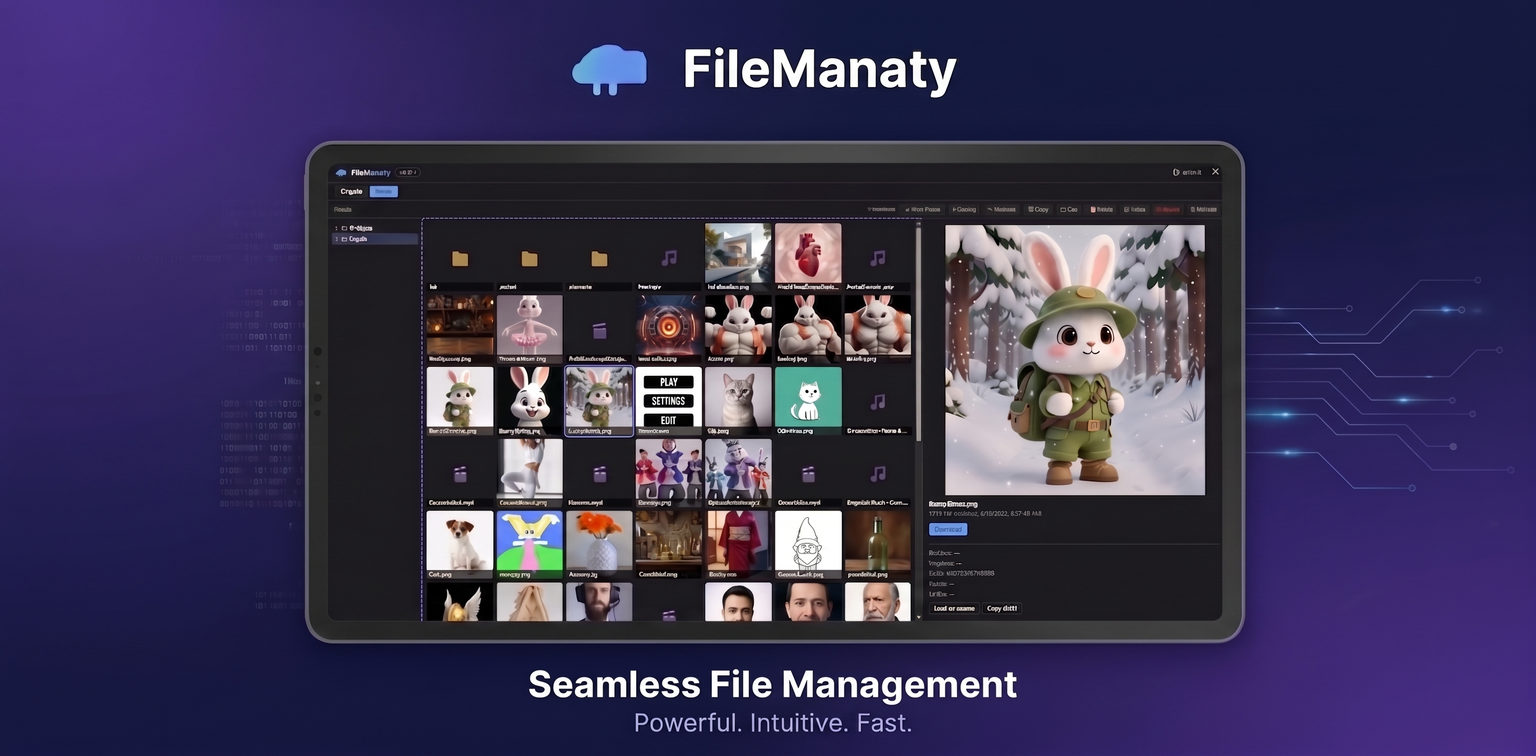
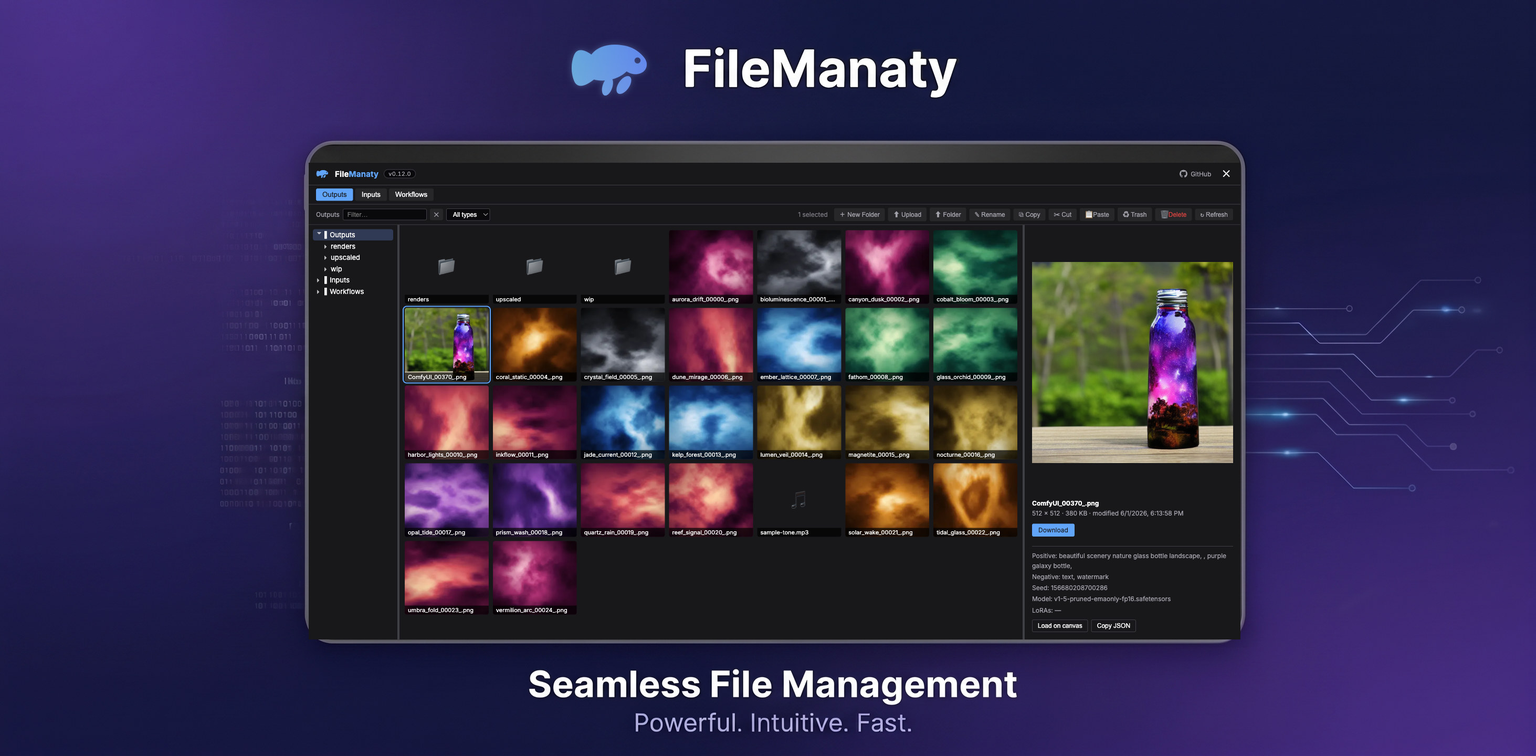
docs(assets): rebuild the README hero around a real screenshot
assets/screenshot.jpg was a marketing composite whose tablet held a
mocked-up UI, not the extension: the version pill read "s:6 2)" and the
toolbar said "Miron Patoe" / "Mitfaies". It also baked in the old flat
mark twice — once as the hero mark, once in the fake app header.

Composited a real capture of the running extension into the existing
tablet frame (real tree, toolbar, selection state and preview pane with
PNG metadata), and replaced the hero mark with the redrawn one, sampling
the original's gradient and glow so the treatment is unchanged.

Background art, wordmark and tagline are untouched. 2.0 MB -> 439 KB.

Changed region(s): [[0.1866, 0.2188, 0.8086, 0.8438], [0.3732, 0.0625, 0.4354, 0.125], [0.1866, 0.8125, 0.2177, 0.8438]]

diff --git a/CHANGELOG.md b/CHANGELOG.md
@@ -11,6 +11,11 @@
   Redrawn from the mascot: same pose, blunt muzzle, eye, two flippers, broad paddle tail. Still a
   single-color path, so it keeps inheriting the ComfyUI theme color and the hover-to-accent tint.
 
+- **The README hero now shows the real app.** `assets/screenshot.jpg` carried a mocked-up UI with
+  garbled labels, plus the old mark in both the hero and the fake app header. The tablet now holds
+  an actual capture of the running extension — real tree, real toolbar, real preview pane with
+  PNG metadata — and the hero mark was replaced with the redrawn one. Also 2.0 MB → 439 KB.
+
 ## v0.12.0 — 2026-08-05
 
 ### Added
